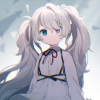
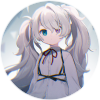
Add files via upload

Changed region(s): [[0.0, 0.0, 1.0, 0.6], [0.0, 0.66, 0.93, 1.0]]

diff --git a/css/style.css b/css/style.css
@@ -1,7 +1,7 @@
 div {
 	background-color: rgb(0,0,0,0.4);
-	padding: 80px 200px 80px 200px ;
-	margin: 200px auto 0px auto;
+	padding: 60px 0px 80px 0px ;
+	margin: 150px auto 0px auto;
 	font-size: 22px;
 	border-radius: 40px;
 }
@@ -29,6 +29,8 @@ img {
 	display: block;
 	margin-left: auto;
 	margin-right: auto;
+	border: 1px solid black;
+	border-radius: 100px;
 }
 
 #button1 {
